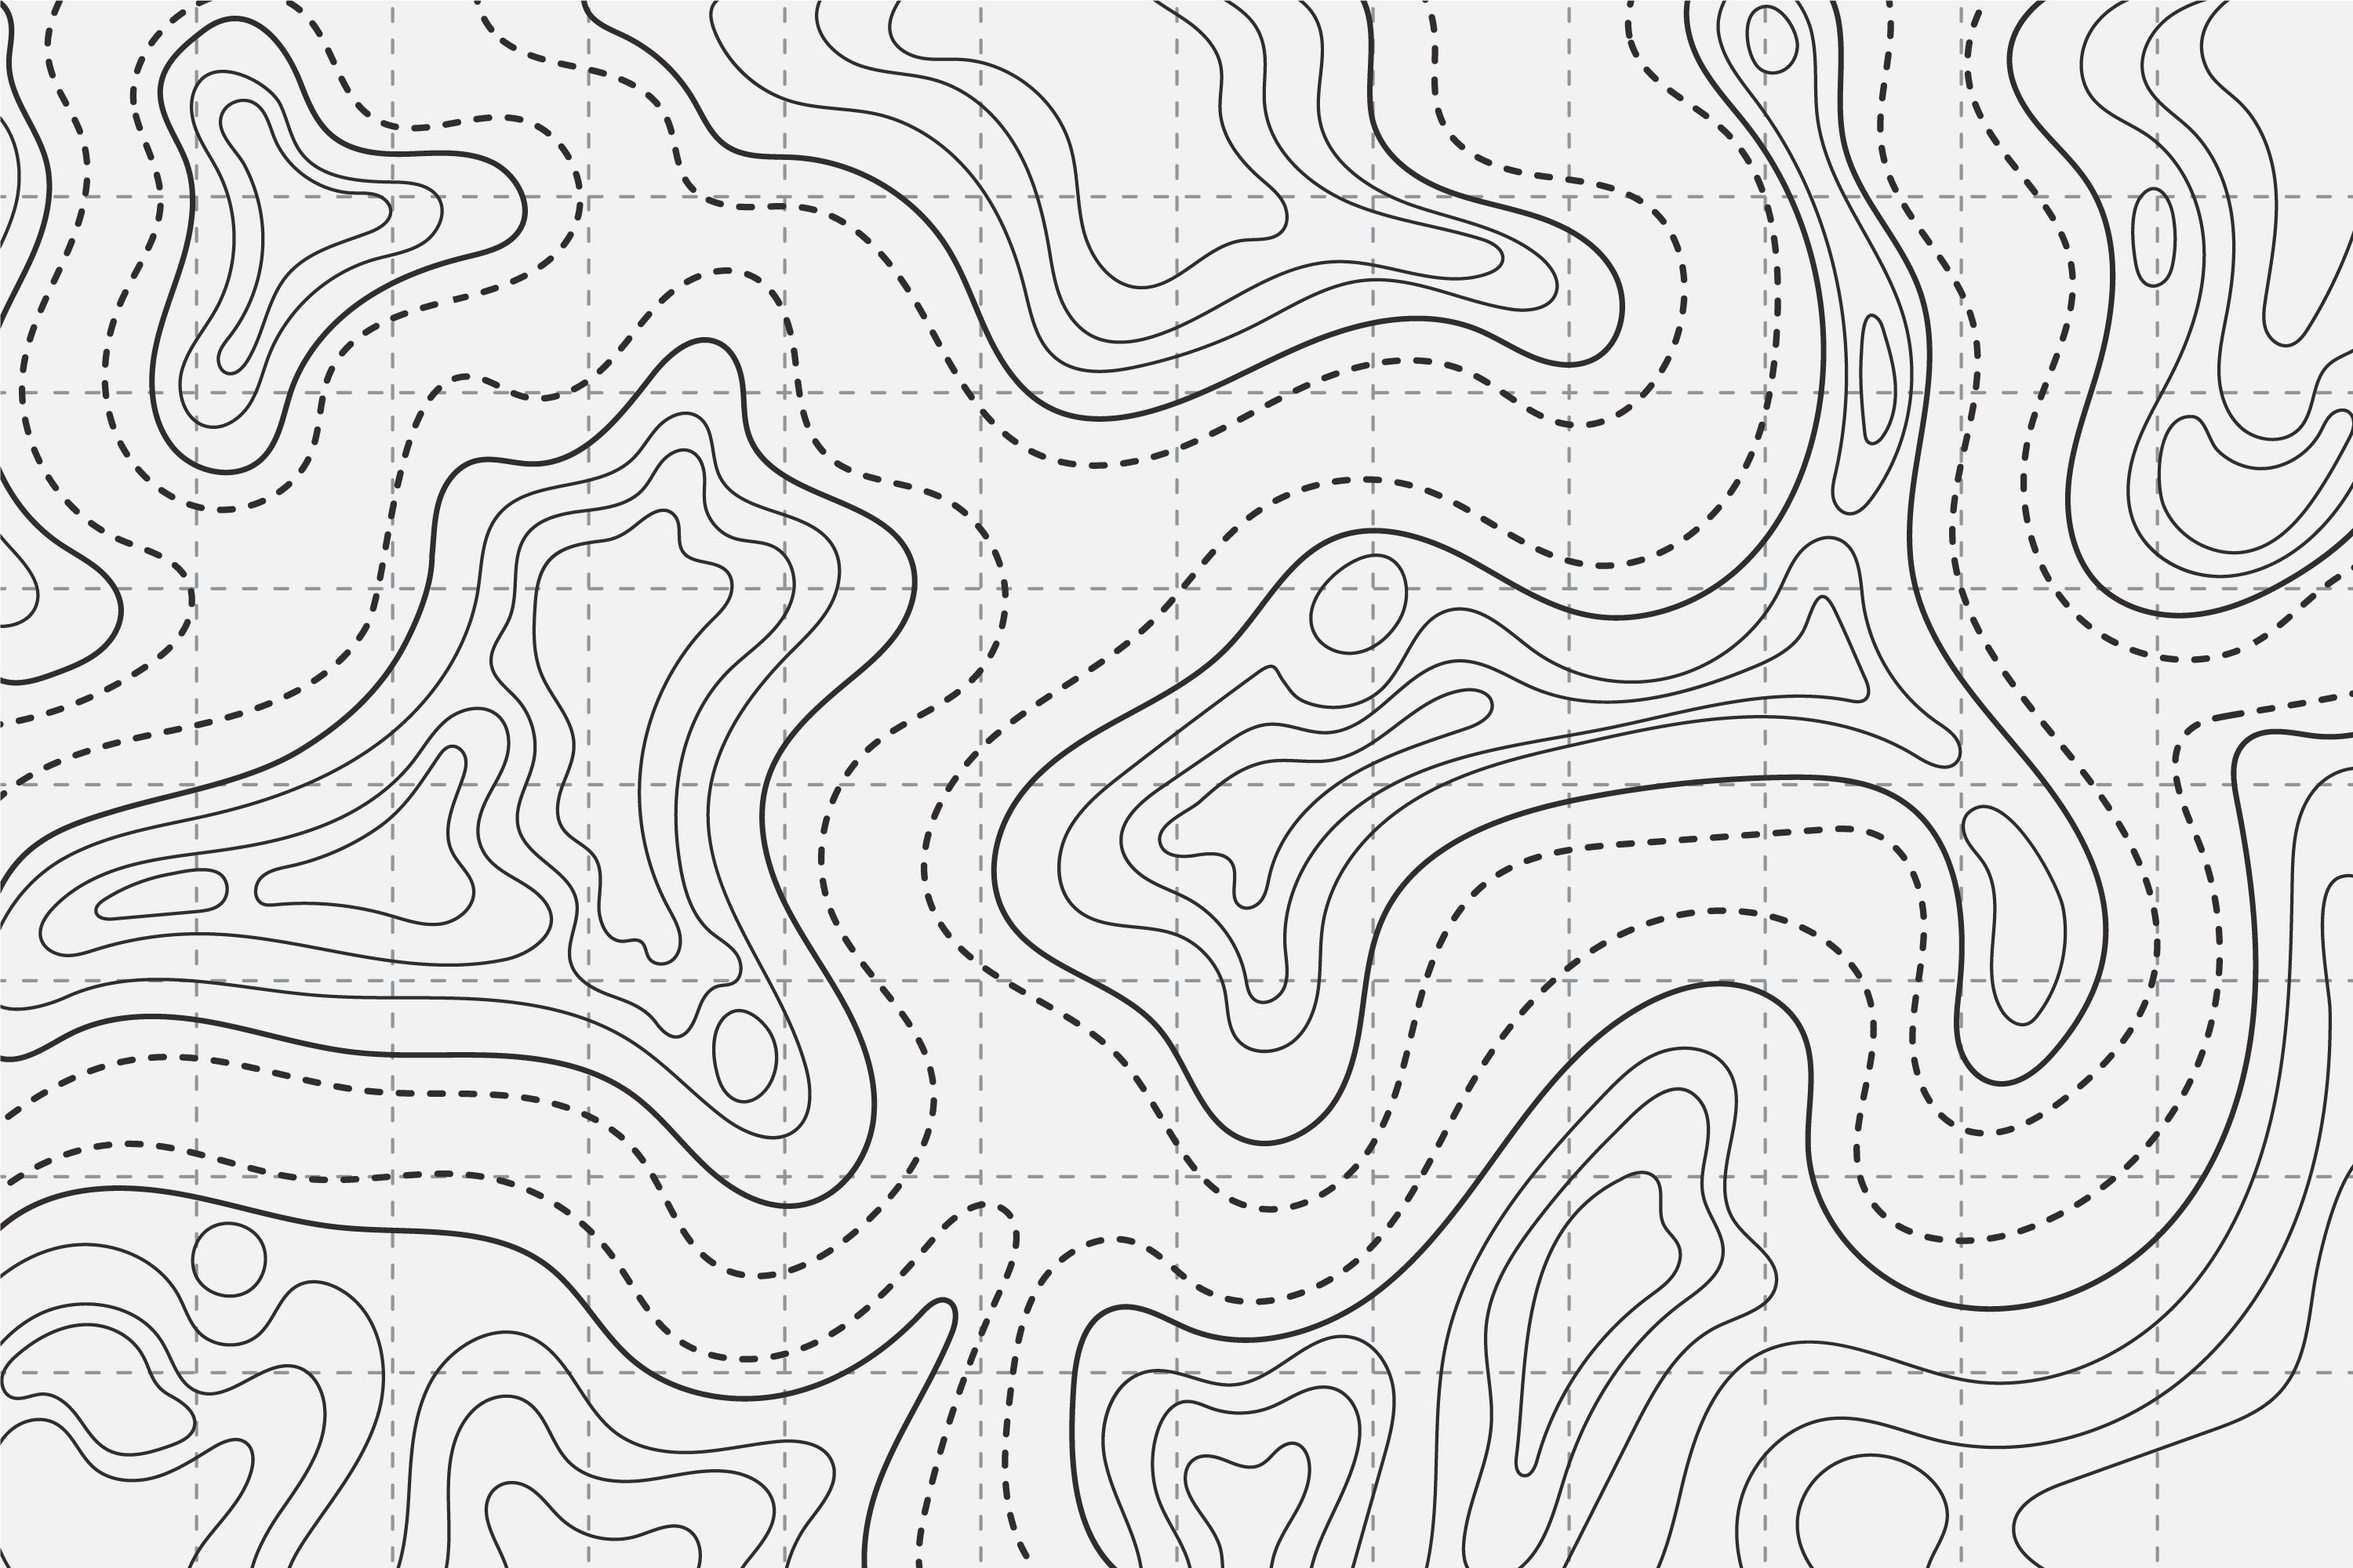
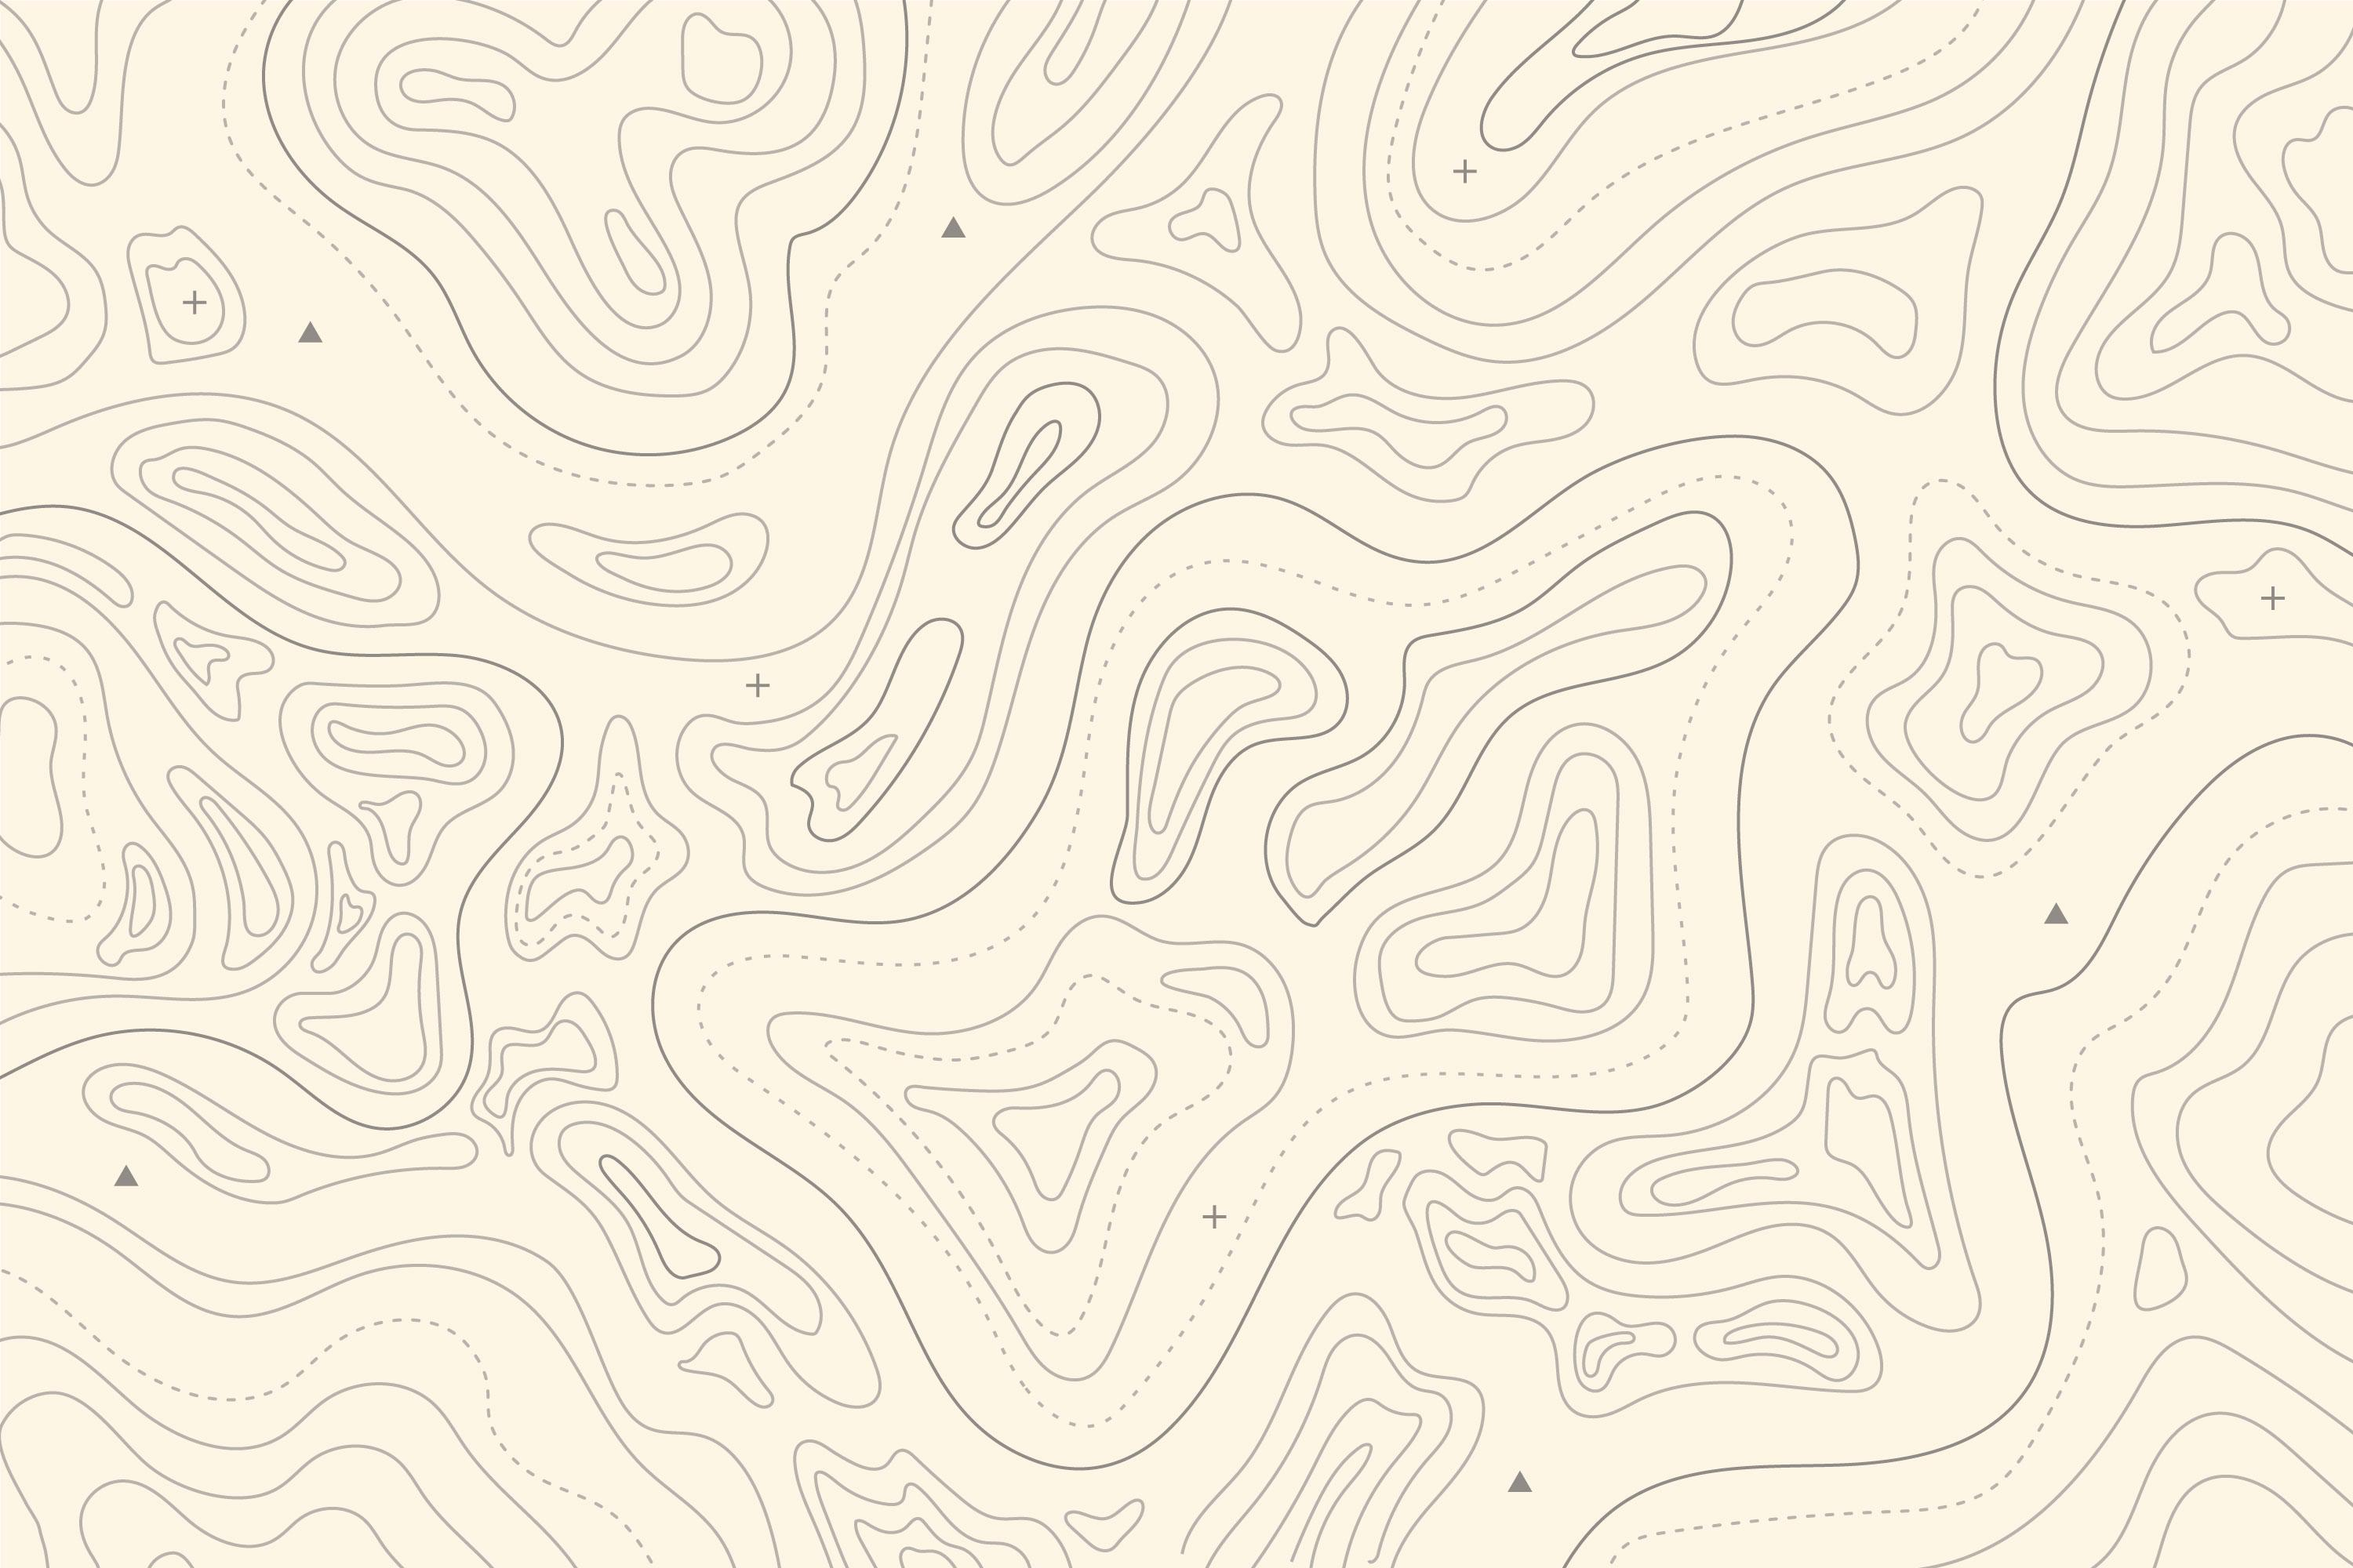
add: notes clusterization, map view toggle

diff --git a/src/components/world-map.tsx b/src/components/world-map.tsx
@@ -48,7 +48,7 @@ export const WorldMap: React.FC<WorldMapProps> = ({ geoData }) => {
 
     return (
         <div className="relative w-full h-screen">
-            <div className="absolute inset-0 bg-[url('/4049458.jpg')] bg-cover bg-center bg-no-repeat" />
+            <div className="absolute inset-0 bg-[url('/bg.jpg')] bg-cover bg-center bg-no-repeat" />
             <div className="absolute inset-0 bg-black/10" />
             <ComposableMap
                 projection={projection}
